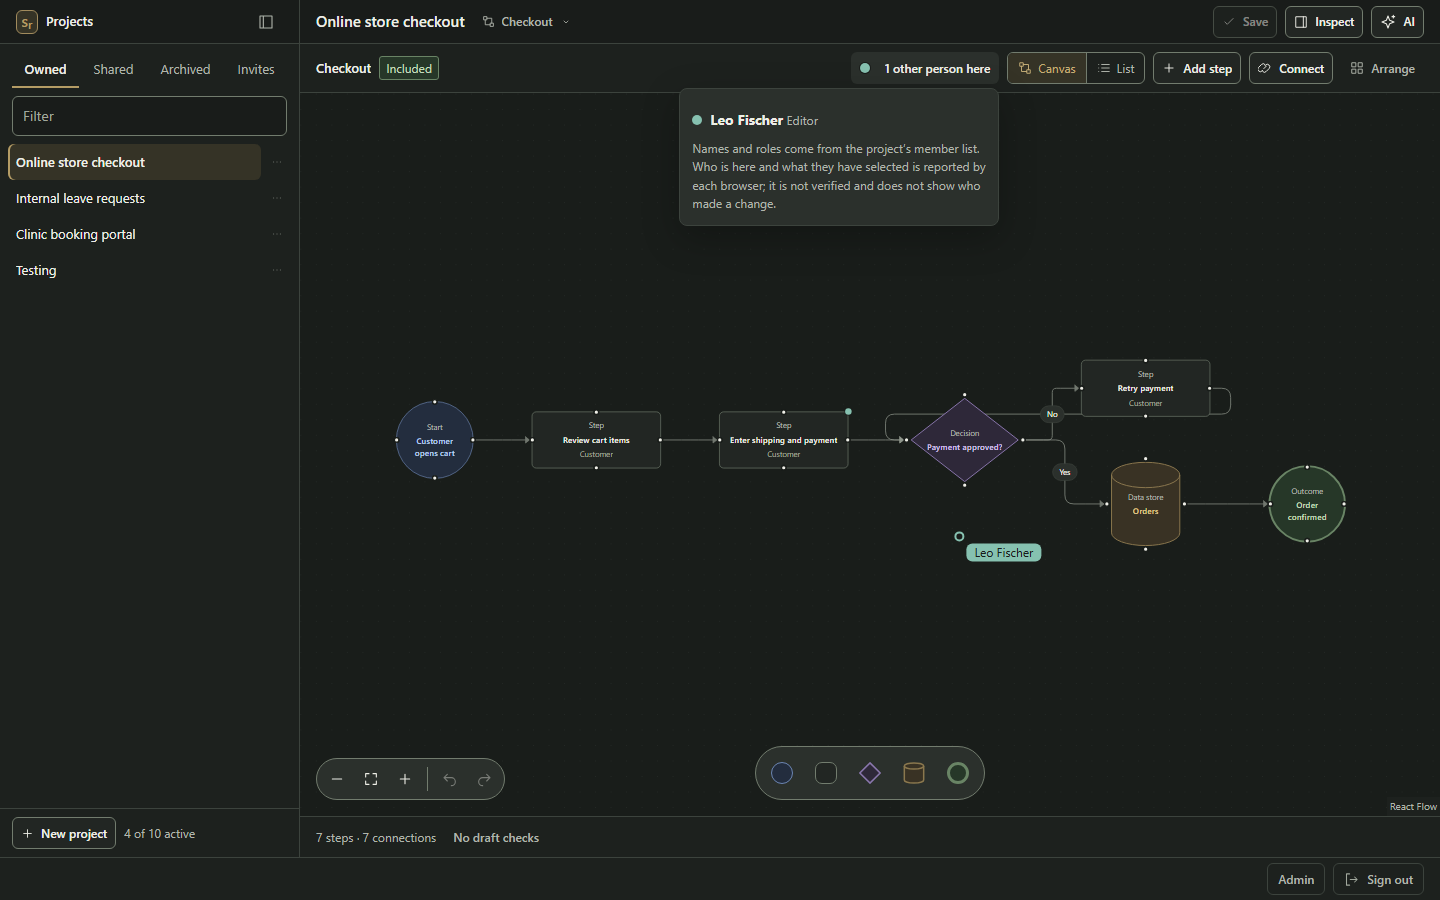
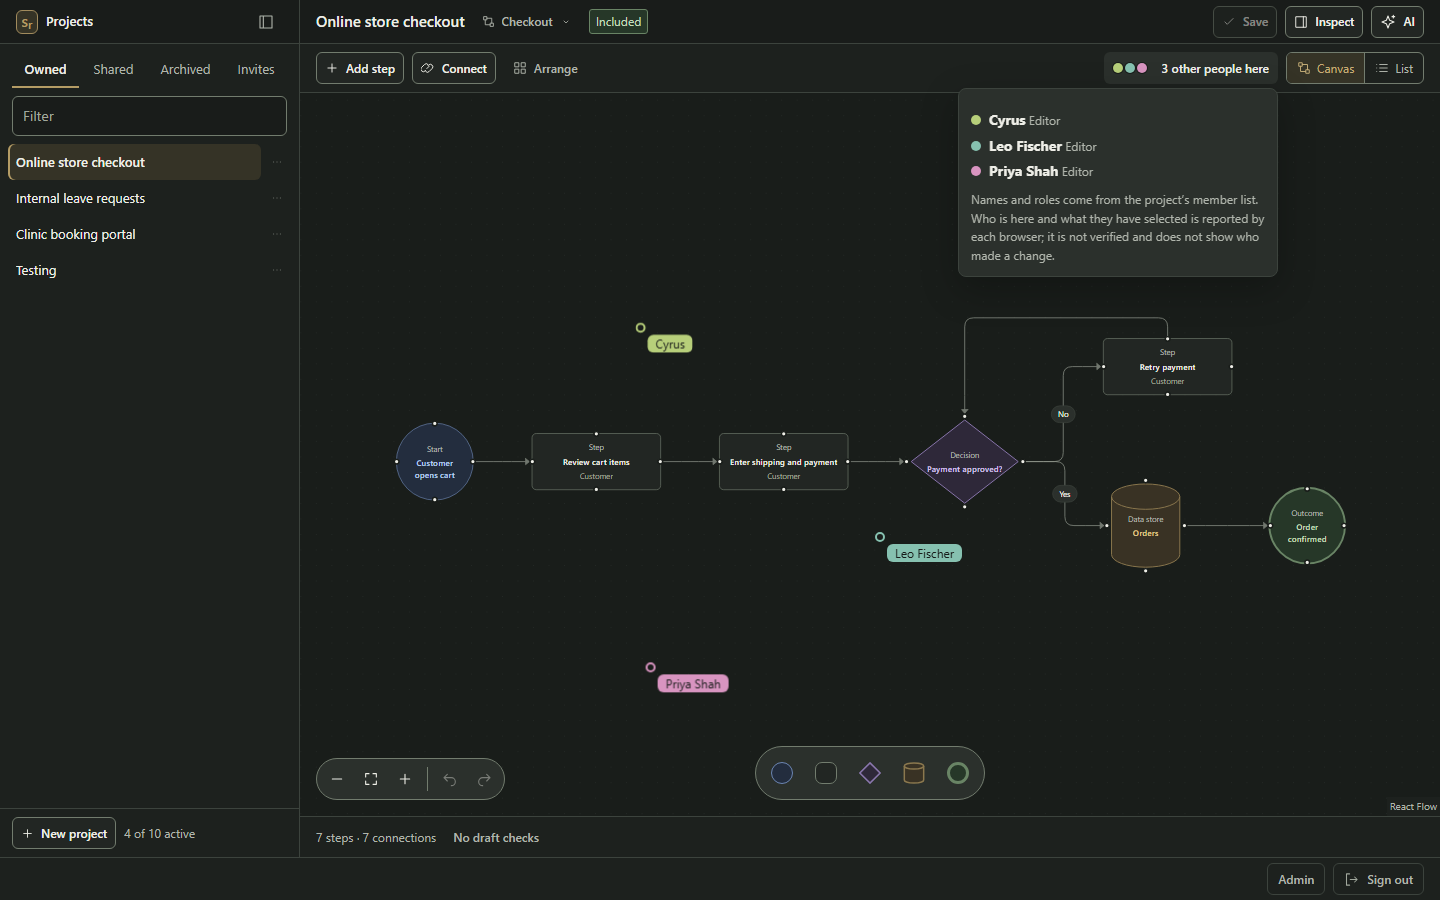
docs: retake the README screenshots with the new Studio header and toolbar
The ten screenshots that show the Studio still had the repeated flow name row
from before #46. They are retaken from the live demo: the scope badge sits
beside the flow switcher, and the presence shot now shows four members
working at once.

diff --git a/README.md b/README.md
@@ -82,7 +82,7 @@ The manual path works end to end without AI.
 
 | Live collaboration | Invite and members |
 | --- | --- |
-| ![Another editor's cursor, selection and presence list on the canvas](docs/screenshots/collaboration-presence.png) | ![Project details with members and the invitation form](docs/screenshots/invite-members.png) |
+| ![Three other editors' cursors and the presence list on the canvas](docs/screenshots/collaboration-presence.png) | ![Project details with members and the invitation form](docs/screenshots/invite-members.png) |
 | **AI proposal review** | **Evidence and scope** |
 | ![An AI proposal shown as a preview before Apply](docs/screenshots/ai-proposal.png) | ![Specs panel with the scope board](docs/screenshots/specs-scope.png) |
 | **Approved baseline** | **Flows menu** |
@@ -94,7 +94,7 @@ The manual path works end to end without AI.
 | **Phone layout** | |
 | ![The Studio at phone width](docs/screenshots/mobile-studio.png) | |
 
-The screenshots come from the live app with a demo project and two demo accounts; the AI proposal is a real Claude result. The staff screen shows sample accounts, so no real users appear.
+The screenshots come from the live app with a demo project and four of its members working at once; the AI proposal is a real Claude result. The staff screen shows sample accounts, so no real users appear.
 
 ## Tech stack
 
